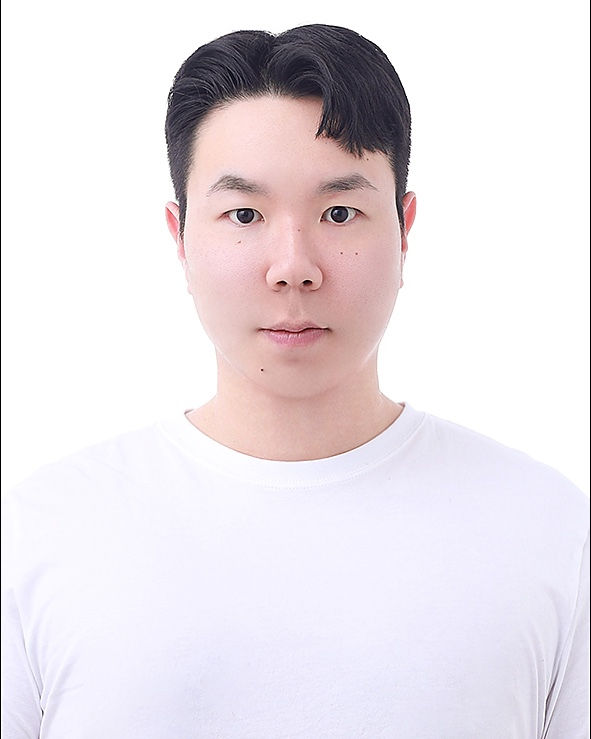
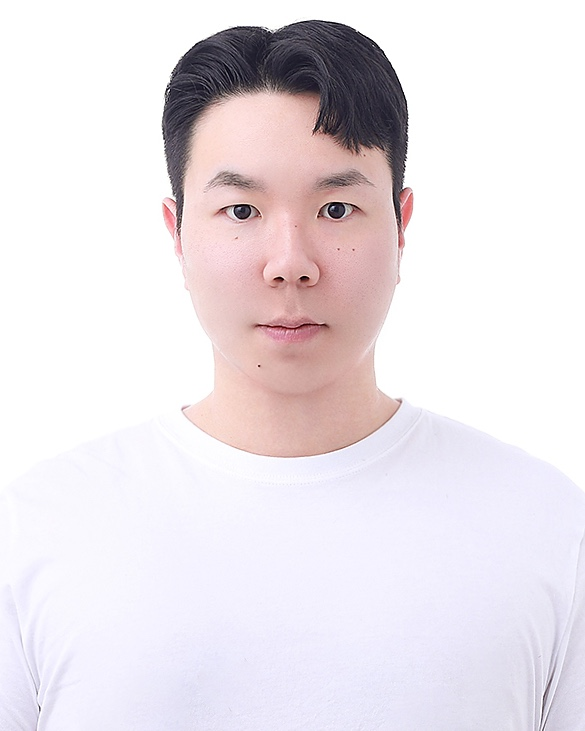
Remove border from Uhjin Kim photo

diff --git a/people.html b/people.html
@@ -48,7 +48,7 @@
     <section class="member-group" aria-labelledby="phd-heading">
       <div class="member-group-heading"><span class="member-group-index">03</span><h2 id="phd-heading">Ph.D. Students</h2></div>
       <div class="people-grid">
-        <article class="person-card"><div class="person-photo"><img src="assets/people/uhjin-kim.jpg?v=2" alt="Uhjin Kim"></div><h3>Uhjin Kim</h3><div class="person-role">Ph.D. Student</div></article>
+        <article class="person-card"><div class="person-photo"><img src="assets/people/uhjin-kim.jpg?v=3" alt="Uhjin Kim"></div><h3>Uhjin Kim</h3><div class="person-role">Ph.D. Student</div></article>
         <article class="person-card"><div class="person-photo"><img src="assets/people/soobeom-choi.jpg?v=2" alt="Soobeom Choi"></div><h3>Soobeom Choi</h3><div class="person-role">Ph.D. Student</div></article>
       </div>
     </section>
